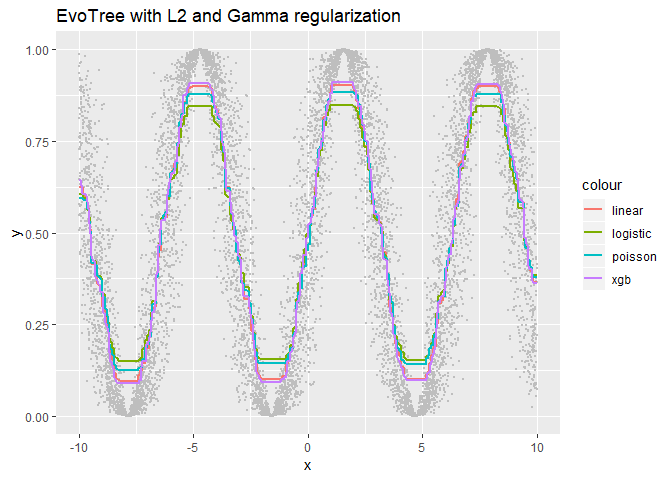
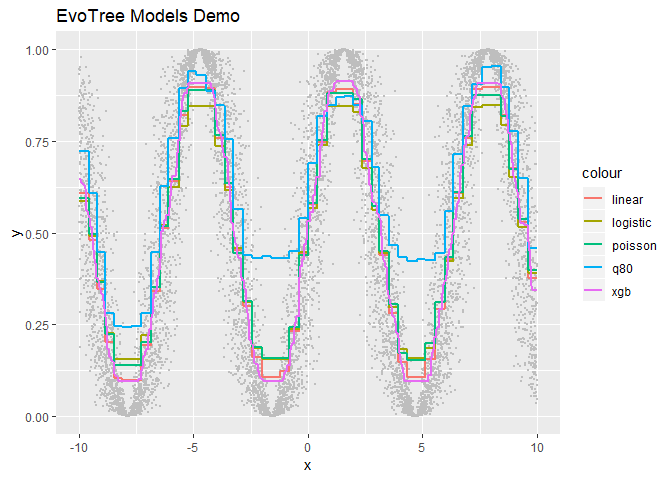
update for quantiles

Changed region(s): [[0.0938, 0.0938, 0.8125, 0.875], [0.1875, 0.0, 0.5938, 0.0625], [0.8438, 0.3438, 1.0, 0.625]]

diff --git a/README.md b/README.md
@@ -11,7 +11,8 @@ environment. Then, install EvoTree R package with:
 
 # Parameters
 
-  - loss: {“linear”, “logistic”, “Poisson”}
+  - loss: {“linear”, “logistic”, “poisson”, “quantile”}
+  - alpha: float, optional, \[0, 1\], set the quantile level
   - nrounds: 10L
   - lambda: 0.0
   - gamma: 0.0
@@ -46,6 +47,11 @@ pred_logistic <- predict(model = model, data = data_train)
 params <- list(loss = "poisson", nrounds = 200, eta = 0.05, lambda = 0.5, gamma = 0.5, max_depth = 5, min_weight = 1, rowsample = 0.5, colsample = 1)
 model <- evo_train(data_train = data_train, target_train = target_train, params = params, metric = as.symbol("none"))
 pred_poisson <- predict(model = model, data = data_train)
+
+# quantile regression - q80
+params <- list(loss = "quantile", alpha=0.8, nrounds = 200, eta = 0.05, lambda = 0.5, gamma = 0.0, max_depth = 5, min_weight = 1, rowsample = 0.5, colsample = 1)
+model <- evo_train(data_train = data_train, target_train = target_train, params = params, metric = as.symbol("none"))
+pred_q80 <- predict(model = model, data = data_train)
 
 # xgboost reference
 params <- list(max_depth = 4, eta = 0.05, subsample = 0.5, colsample_bytree = 1.0, min_child_weight = 1, lambda = 1, alpha = 0, gamma = 1.0, tree_method = "exact", objective = "reg:linear", eval_metric = "rmse")
